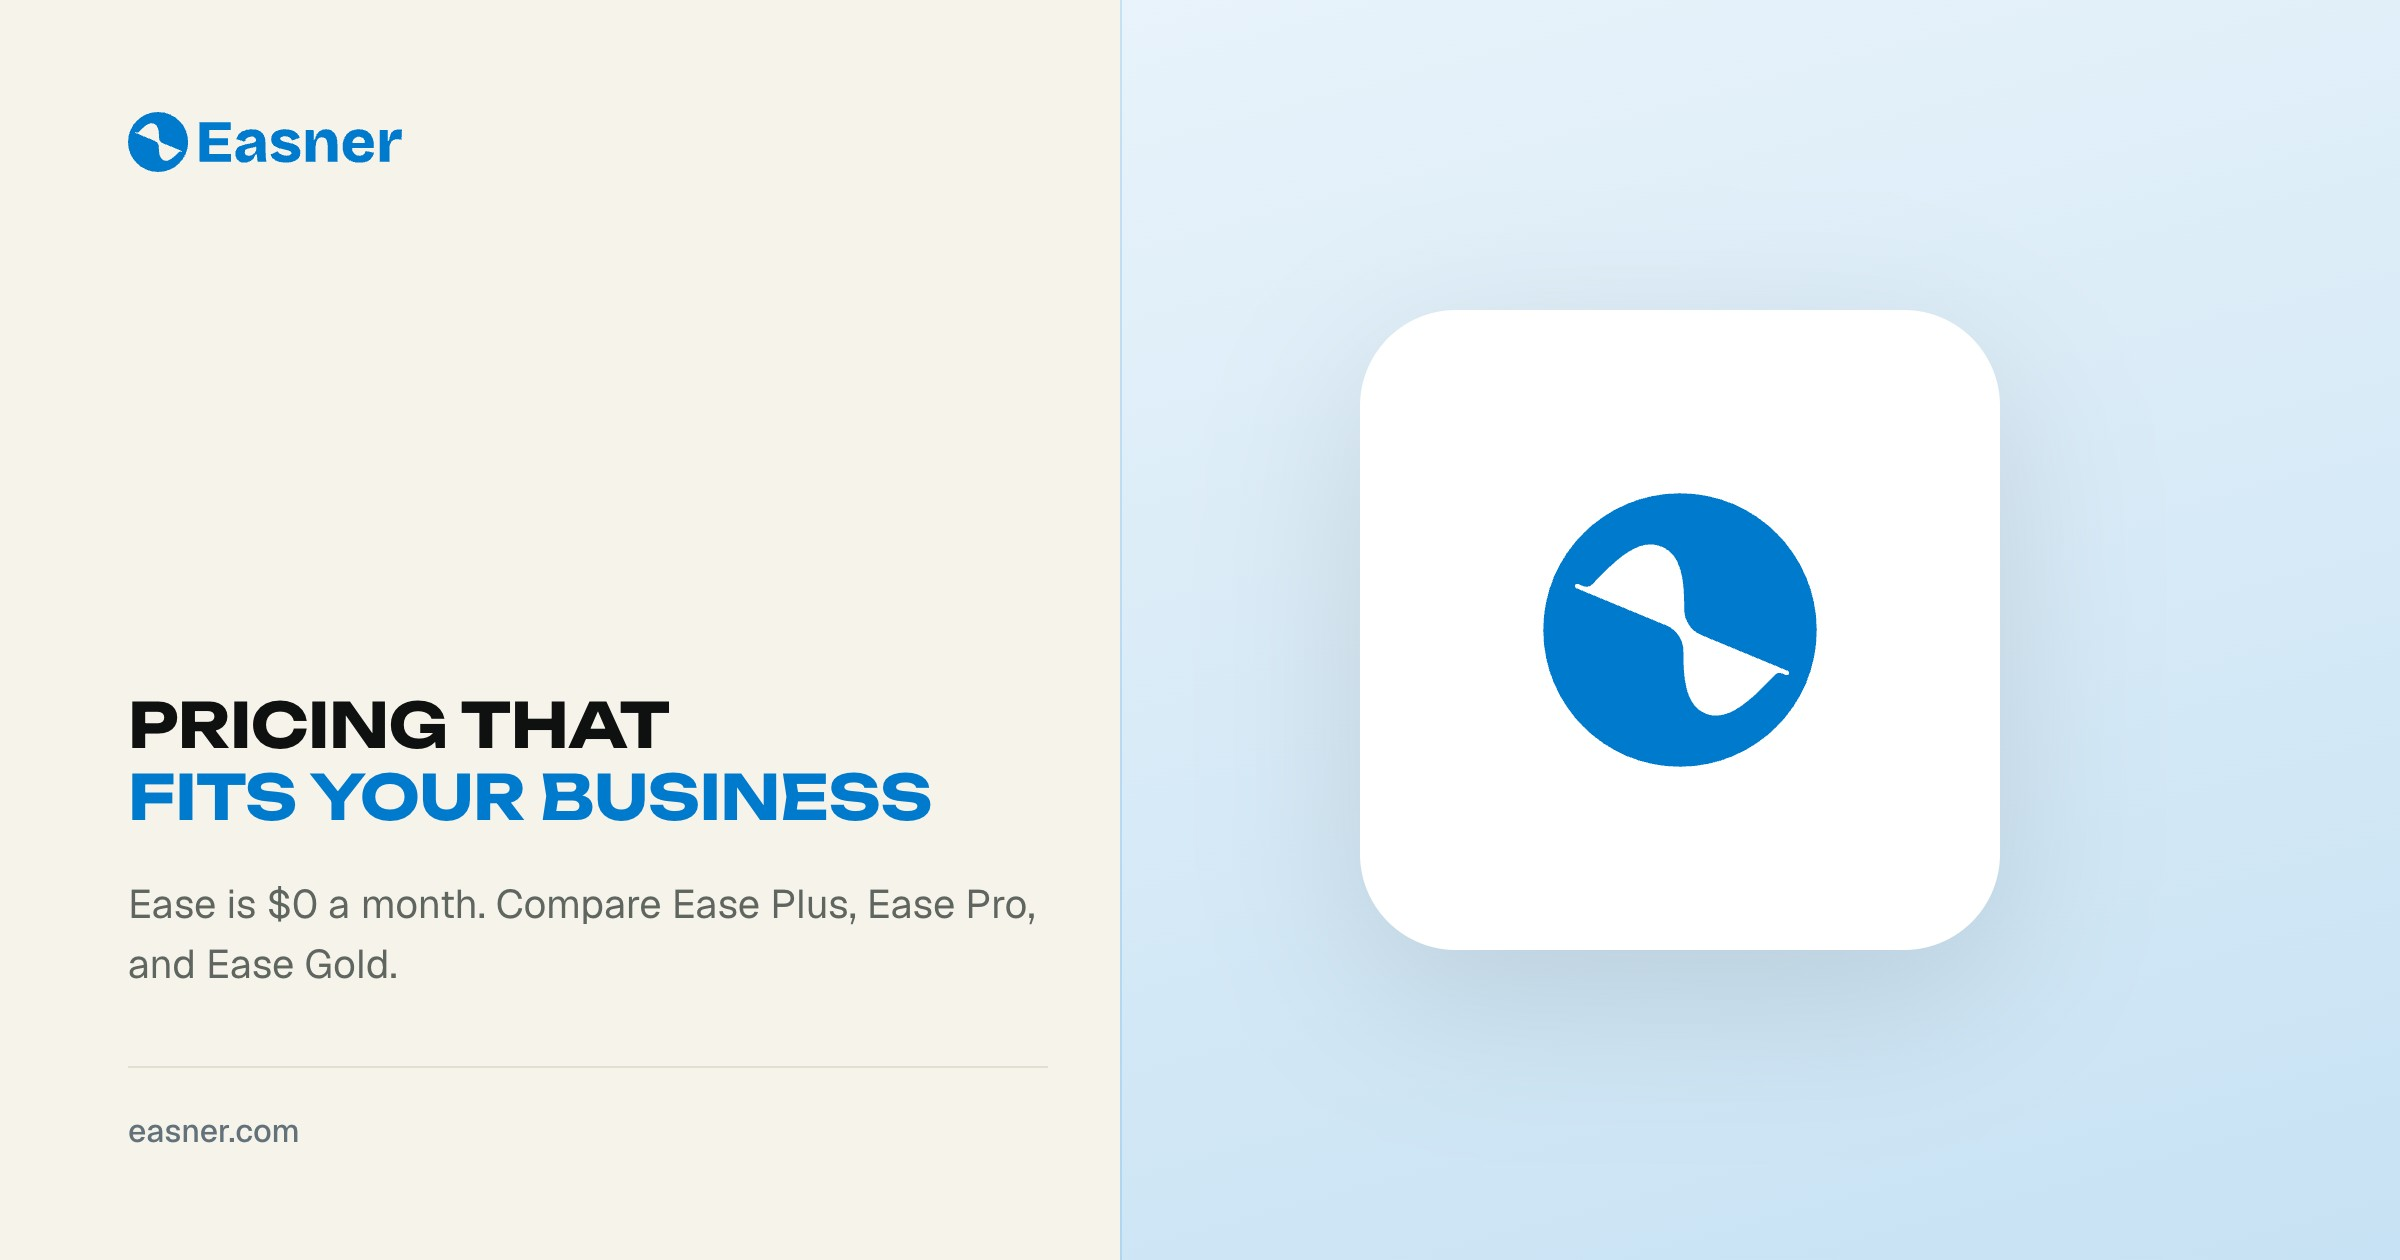
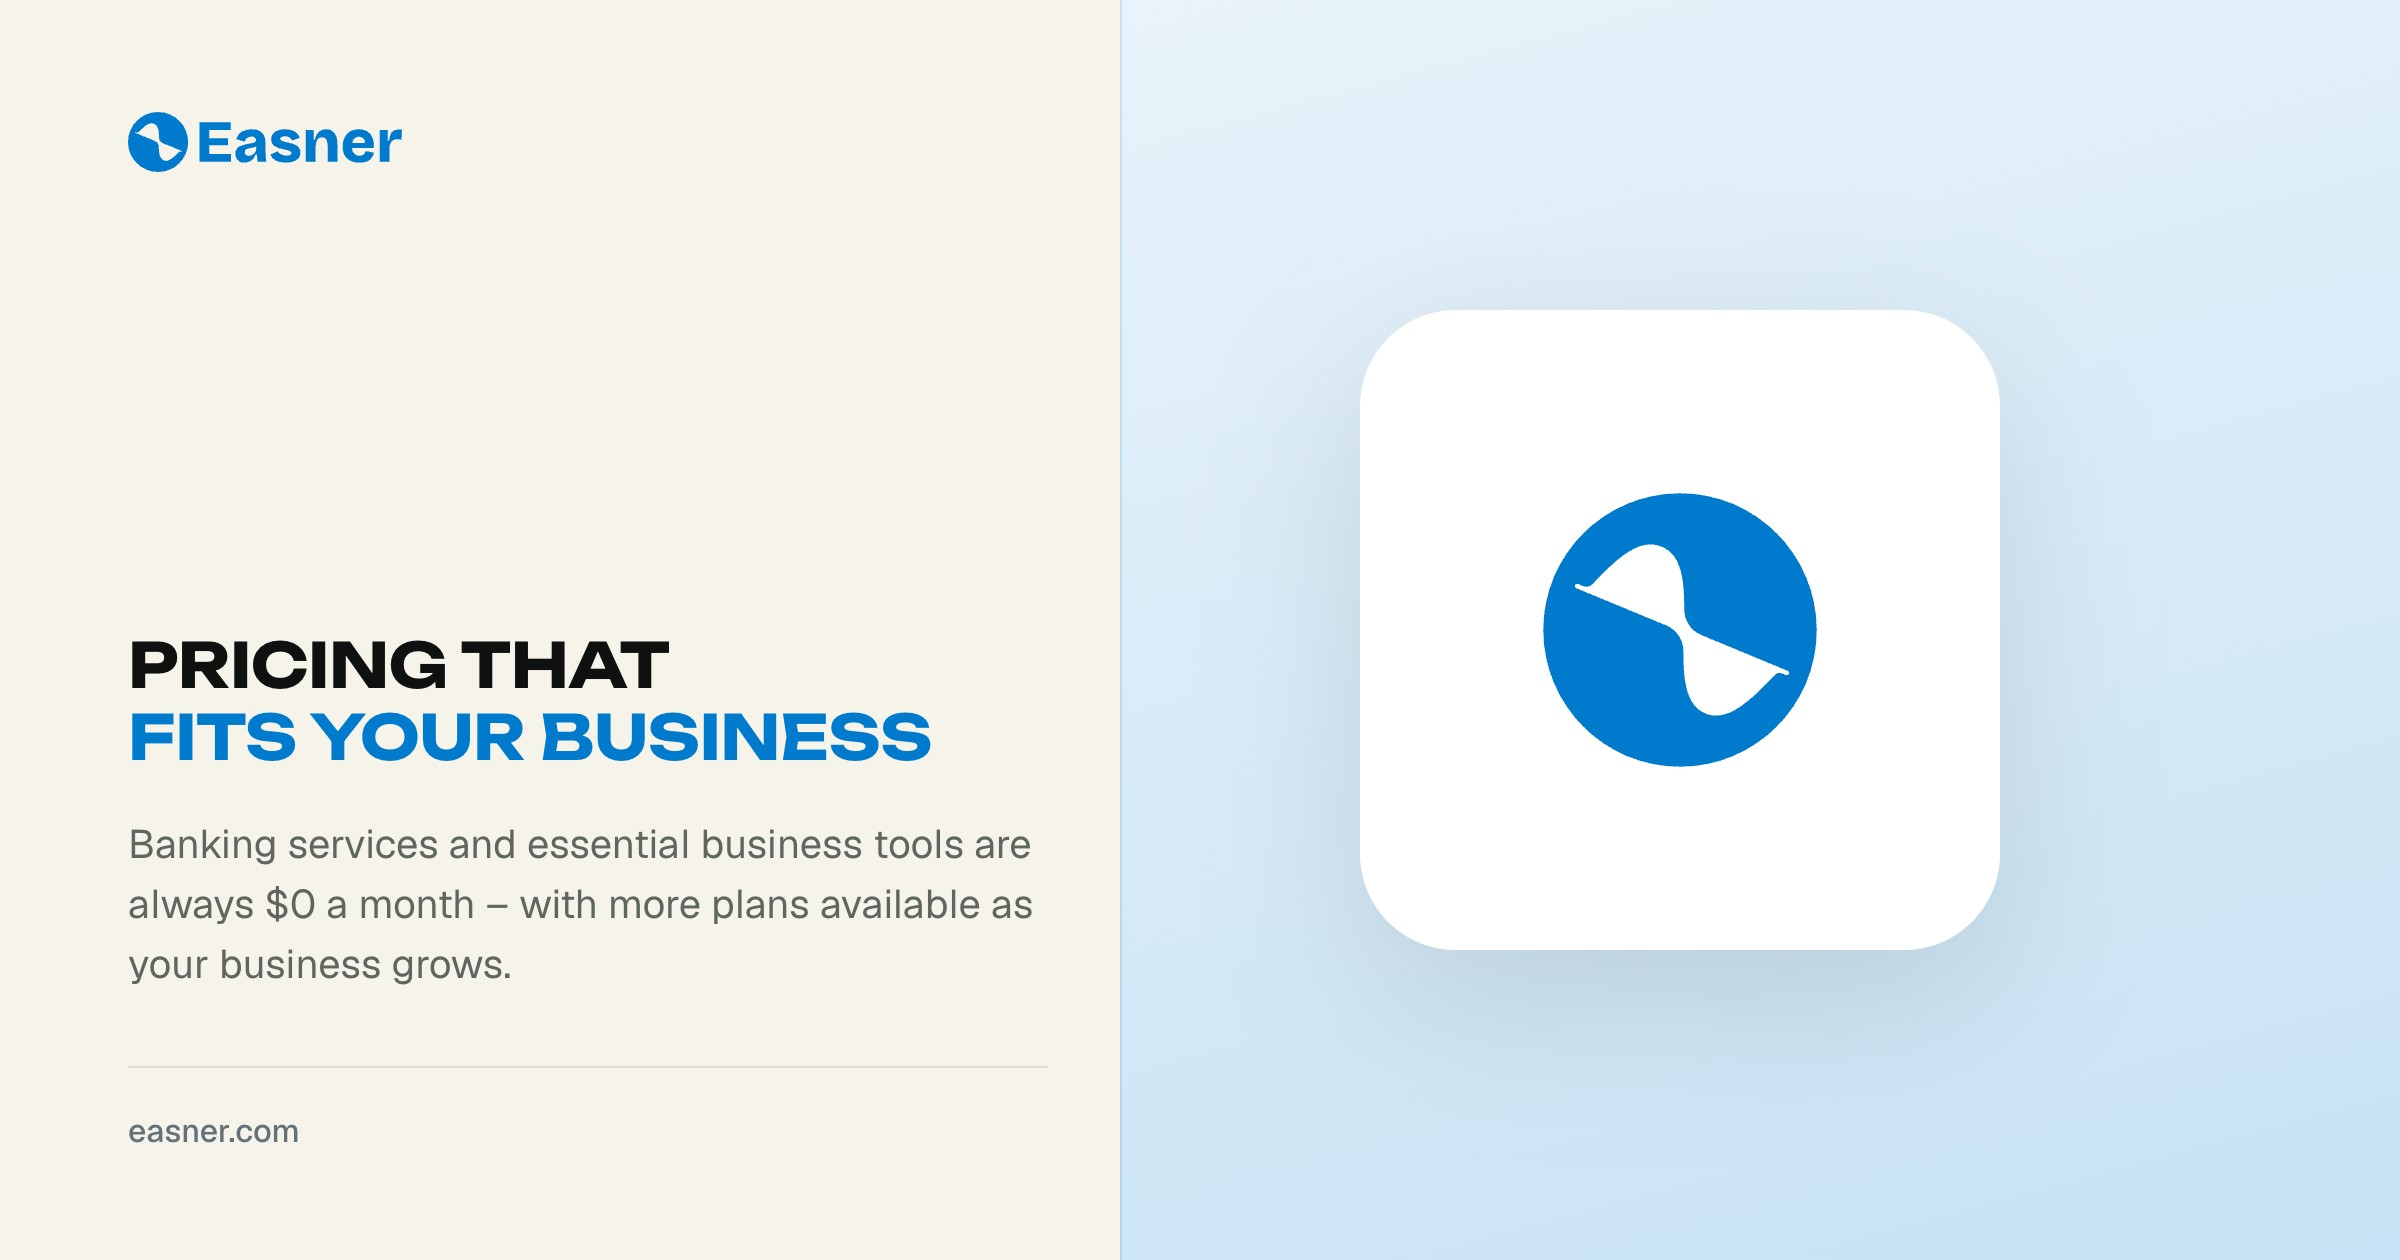
Align the pricing snippet, share image, and answers with the $0-a-month offer.

Changed region(s): [[0.0312, 0.4952, 0.4375, 0.681], [0.0625, 0.7119, 0.4375, 0.7738]]

diff --git a/website/lib/marketing/content/pricing.ts b/website/lib/marketing/content/pricing.ts
@@ -4,7 +4,7 @@ import { BUSINESS_SIGNUP_URL, CONTACT_PATH } from "../constants"
 export const pricingMetadata = {
   title: "Pricing | Accounts, Payouts, Invoicing & Payroll",
   description:
-    "Ease is $0 a month. Compare Ease Plus, Ease Pro, and Ease Gold for accounts, payouts, invoicing, and payroll. Card payments and transfers have a processing fee.",
+    "Banking services and essential business tools are always $0 a month – with more plans available as your business grows. Card payments and transfers have a processing fee.",
   keywords: [
     "Easner business pricing",
     "Ease plan",
@@ -24,7 +24,7 @@ export const pricingDefinition: AnswerDefinition = {
   term: "Easner business plans",
   question: "How much does Easner Business cost?",
   answer:
-    "Ease is $0 a month. Ease Plus is $39 a month billed yearly, or $49 a month, and saves $120 a year on annual billing. Ease Pro is $159 a month billed yearly, or $199 a month, and saves $480 a year. Ease Gold is agreed with Easner. Card payments and transfers have a processing fee.",
+    "Banking services and essential business tools are always $0 a month, with more plans available as the business grows. Ease Plus is $39 a month billed yearly, or $49 a month, and saves $120 a year on annual billing. Ease Pro is $159 a month billed yearly, or $199 a month, and saves $480 a year. Ease Gold is agreed with Easner. Card payments and transfers have a processing fee.",
   facts: [
     {
       term: "Ease",

diff --git a/website/lib/marketing/content/ai.ts b/website/lib/marketing/content/ai.ts
@@ -58,7 +58,7 @@ export const aiCompanyFaq: FaqItem[] = [
   {
     question: "How much does Easner cost?",
     answer:
-      "Ease is $0 a month. Ease Plus is $39 a month billed yearly, or $49 a month. Ease Pro is $159 a month billed yearly, or $199 a month. Ease Gold is agreed with us. Card payments and transfers have a processing fee. Fees and exchange rates are shown before a payment is confirmed, including what your recipient gets.",
+      "Banking services and essential business tools are always $0 a month, with more plans available as the business grows. Ease Plus is $39 a month billed yearly, or $49 a month. Ease Pro is $159 a month billed yearly, or $199 a month. Ease Gold is agreed with us. Card payments and transfers have a processing fee. Fees and exchange rates are shown before a payment is confirmed, including what your recipient gets.",
     links: [{ label: "Pricing", href: "/pricing" }],
   },
   {

diff --git a/website/lib/marketing/og-cards.ts b/website/lib/marketing/og-cards.ts
@@ -154,9 +154,9 @@ export const OG_CARDS: OgCard[] = [
     route: "pricing",
     headline: ["Pricing that", "fits your business"],
     accentLine: 1,
-    line: "Ease is $0 a month. Compare Ease Plus, Ease Pro, and Ease Gold.",
+    line: "Banking services and essential business tools are always $0 a month – with more plans available as your business grows.",
     visual: { kind: "mark" },
-    alt: "Easner pricing – Ease, Ease Plus, Ease Pro, and Ease Gold.",
+    alt: "Pricing that fits your business. Banking services and essential business tools are always $0 a month, with more plans as the business grows.",
   },
   {
     slug: "contact",
